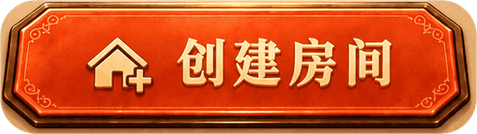
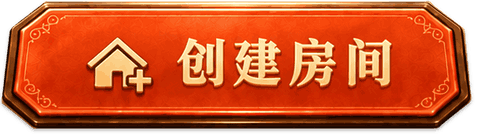
fix: trim parchment collars from primary button artwork

Changed region(s): [[0.0, 0.0, 1.0, 1.0]]

diff --git a/scripts/slice-learning-v2.py b/scripts/slice-learning-v2.py
@@ -3,18 +3,46 @@ Rectangles are left/top/right/bottom in the 941x1672 source, masks 4x AA.
 Reconstructed surfaces are explicitly recorded separately from original cuts.
 """
 from pathlib import Path
-from PIL import Image, ImageDraw
-import json, uuid, subprocess
+from PIL import Image, ImageDraw, ImageFilter, ImageChops
+import json, uuid, subprocess, math
 
 root = Path(__file__).resolve().parents[1]
 source = root / 'docs/design/new-pages-v2'
 out = root / 'assets/resources/art/learning-v2'
 out.mkdir(parents=True, exist_ok=True)
 cuts = {}
+contour_spec = json.loads((source/'reconstruction/button-contours.json').read_text())
+
+def contour_cut(im, points):
+    # Smooth the traced perimeter; keep RGB only inside the actual metal rim.
+    sampled = []
+    for i, p1 in enumerate(points):
+        p0, p2, p3 = points[i-1], points[(i+1)%len(points)], points[(i+2)%len(points)]
+        # Limit handles by adjacent chord lengths: long straight edges must
+        # not overshoot the short corner arcs and leave stray opaque lines.
+        a=min(math.dist(p1,p0),math.dist(p2,p1))/3/max(math.dist(p2,p0),1)
+        b=min(math.dist(p2,p1),math.dist(p3,p2))/3/max(math.dist(p3,p1),1)
+        c1 = [p1[k]+(p2[k]-p0[k])*a for k in (0,1)]
+        c2 = [p2[k]-(p3[k]-p1[k])*b for k in (0,1)]
+        for step in range(12):
+            t=step/12;u=1-t
+            sampled.append(tuple(4*(u**3*p1[k]+3*u*u*t*c1[k]+3*u*t*t*c2[k]+t**3*p2[k]) for k in (0,1)))
+    mask = Image.new('L', (im.width*4,im.height*4))
+    ImageDraw.Draw(mask).polygon(sampled,fill=255)
+    mask = mask.resize(im.size,Image.Resampling.LANCZOS)
+    shadow = Image.new('L',im.size)
+    shadow.paste(mask,(0,contour_spec['shadow']['offset'][1]))
+    shadow = shadow.filter(ImageFilter.GaussianBlur(contour_spec['shadow']['blur']))
+    shadow = shadow.point(lambda value: round(value*contour_spec['shadow']['opacity']))
+    base=Image.new('RGBA',im.size,(0,0,0,0));base.putalpha(shadow)
+    im.putalpha(ImageChops.multiply(im.getchannel('A'),mask))
+    return Image.alpha_composite(base,im)
 
 def cut(name, file, rect, radius=0, ellipse=False):
     im = Image.open(source / file).convert('RGBA').crop(rect)
-    if radius or ellipse:
+    if name in contour_spec['contours']:
+        im = contour_cut(im,contour_spec['contours'][name])
+    elif radius or ellipse:
         mask = Image.new('L', (im.width*4, im.height*4))
         d = ImageDraw.Draw(mask)
         box = (2, 2, im.width*4-3, im.height*4-3)
@@ -28,7 +56,7 @@ def cut(name, file, rect, radius=0, ellipse=False):
         im = im.resize((round(im.width*.8),round(im.height*.8)), Image.Resampling.LANCZOS)
         im.save(out / (name+'.png'), optimize=True)
         subprocess.run(['pngquant', '--force', '--speed', '1', '--quality', '40-65', '--nofs', '--output', str(out/(name+'.png')), str(out/(name+'.png'))], check=True)
-    cuts[name] = {'source': file, 'rect': rect, 'mask': 'ellipse' if ellipse else f'rounded:{radius}', 'bakedText': not file.startswith('reconstruction/'), 'output': str((out/(name+('.jpg' if name.startswith('bg-') else '.png'))).relative_to(root))}
+    cuts[name] = {'source': file, 'rect': rect, 'mask': 'button-contours.json#'+name if name in contour_spec['contours'] else 'ellipse' if ellipse else f'rounded:{radius}', 'bakedText': not file.startswith('reconstruction/'), 'output': str((out/(name+('.jpg' if name.startswith('bg-') else '.png'))).relative_to(root))}
 
 for name in ['mode', 'hub', 'practice', 'notebook']:
     cut('bg-'+name, 'reconstruction/'+name+'-clean.png', (0,0,941,1672))
@@ -88,3 +116,13 @@ for i,name in enumerate(names):
     sheet.paste(tile,(x+(250-tile.width)//2,y),tile);d.text((x+6,y+152),name,fill='#b87530')
 sheet.save(source/'reconstruction/contact-sheet.png')
 print(f'Wrote {len(cuts)} isolated assets')
+# Both backgrounds for each corrected perimeter, at runtime resolution.
+check=Image.new('RGB',(1000,540));draw=ImageDraw.Draw(check)
+for i,name in enumerate(contour_spec['contours']):
+    for j,color in enumerate(['#172a2e','#f8f1e5']):
+        x,y=j*500,i*180
+        draw.rectangle((x,y,x+499,y+179),fill=color)
+        tile=Image.open(out/(name+'.png')).convert('RGBA')
+        check.paste(tile,(x+10,y+20),tile)
+        draw.text((x+10,y+158),name,fill='#b77b40')
+check.save(source/'reconstruction/button-contours-check.png')

diff --git a/docs/verification/learning-v2/review.md b/docs/verification/learning-v2/review.md
@@ -5,7 +5,7 @@
 ## 结果
 
 1. **P1 已修复并部署：客户端与线上规则版本不一致。** 客户端正确传递 digitCount，但线上旧服务忽略参数且仍使用四位校验、30 秒 / 20 轮。新版 service.js、game.js 及两个共享依赖已备份部署；公网完整验证 2/3/4 位好友房与匹配通过。新增能力协商保护，防止未来再次静默进入错误档位。详情见 [部署记录](../../DEPLOYMENT.md)。
-2. **P2 待修：主按钮斜角存在浅色纸边。** scripts/slice-learning-v2.py 的通用圆角矩形蒙版未贴合八角按钮外轮廓，match.png 等斜角保留不透明纸色；实际运行截图可见。需按实际轮廓制作独立蒙版并检查透明阴影。本轮只记录，未修改这些素材。
+2. **P2 已修复：主按钮斜角存在浅色纸边。** scripts/slice-learning-v2.py 的通用圆角矩形蒙版未贴合八角按钮外轮廓，match.png 等斜角保留不透明纸色；实际运行截图可见。后续修复已为开始匹配、创建房间、开始教学分别描绘曲线轮廓，移除纸色外沿并保留完整按钮，独立生成中性透明阴影。深浅底检查见 [轮廓对照图](../../design/new-pages-v2/reconstruction/button-contours-check.png)。
 
 另两项只读审查分别覆盖状态/正确性以及效率/资源复用，未发现可高置信度确认的独立功能阻塞。候选推理按历史缓存，计时器只更新文本；记录复制仍经过当前回合与期限校验。此结论不代替真机验证。
 
@@ -16,3 +16,5 @@
 - scripts/smoke-game-modes.mjs：模拟旧服务缺失能力字段，确认 2 位操作不排队、不入房、不覆盖默认偏好；恢复能力后完成 2/3/4 位实际点击与对局流程。
 - scripts/smoke-online-modes.cjs：部署后公网 2/3/4 位好友房完整对局、返回及匹配通过。
 - 微信构建通过：主包 2315.7 KB，总包 28629.0 KB。导出 build/wechatgame/，未做微信开发者工具/真机验收或正式发布。
+
+主按钮轮廓修复后的 Web 检查通过：开始教学、开始匹配、创建房间实际点击及返回/取消，短屏与 2/3/4 位完整对局。仅改素材和切图脚本，未改游戏逻辑或服务端；未重复运行逻辑单元测试。客户端类型检查、微信导出通过，当前包体见 package-size.txt。

diff --git a/docs/design/new-pages-v2/reconstruction/README.md b/docs/design/new-pages-v2/reconstruction/README.md
@@ -32,3 +32,9 @@
 - 实战显示实时倒计时，练习不显示虚构的 45 秒；空记录、破解成功和复制不可用均有对应状态。
 
 实际截图与验证范围见 [交付记录](../../../verification/learning-v2/README.md)。
+
+## 主按钮轮廓修正
+
+开始匹配、创建房间、开始教学已改用 [独立曲线轮廓](button-contours.json)，替代通用圆角矩形蒙版。坐标相对原始裁切矩形；短弧控制柄长度受相邻边约束，避免长直边插值过冲。轮廓内保留原稿 RGB，外部透明；原稿混有纸色的投影改为中性黑色 alpha 柔影（2 像素模糊、下移 2 像素、30% 强度）。原图与裁切矩形、运行尺寸、节点位置、点击区及 .meta UUID 不变。
+
+[深浅底检查图](button-contours-check.png) 与切图清单由脚本同步生成。客户端类型检查和 Web 实际点击检查通过，微信导出及包体检查通过；未进行微信真机验证或正式发布。
